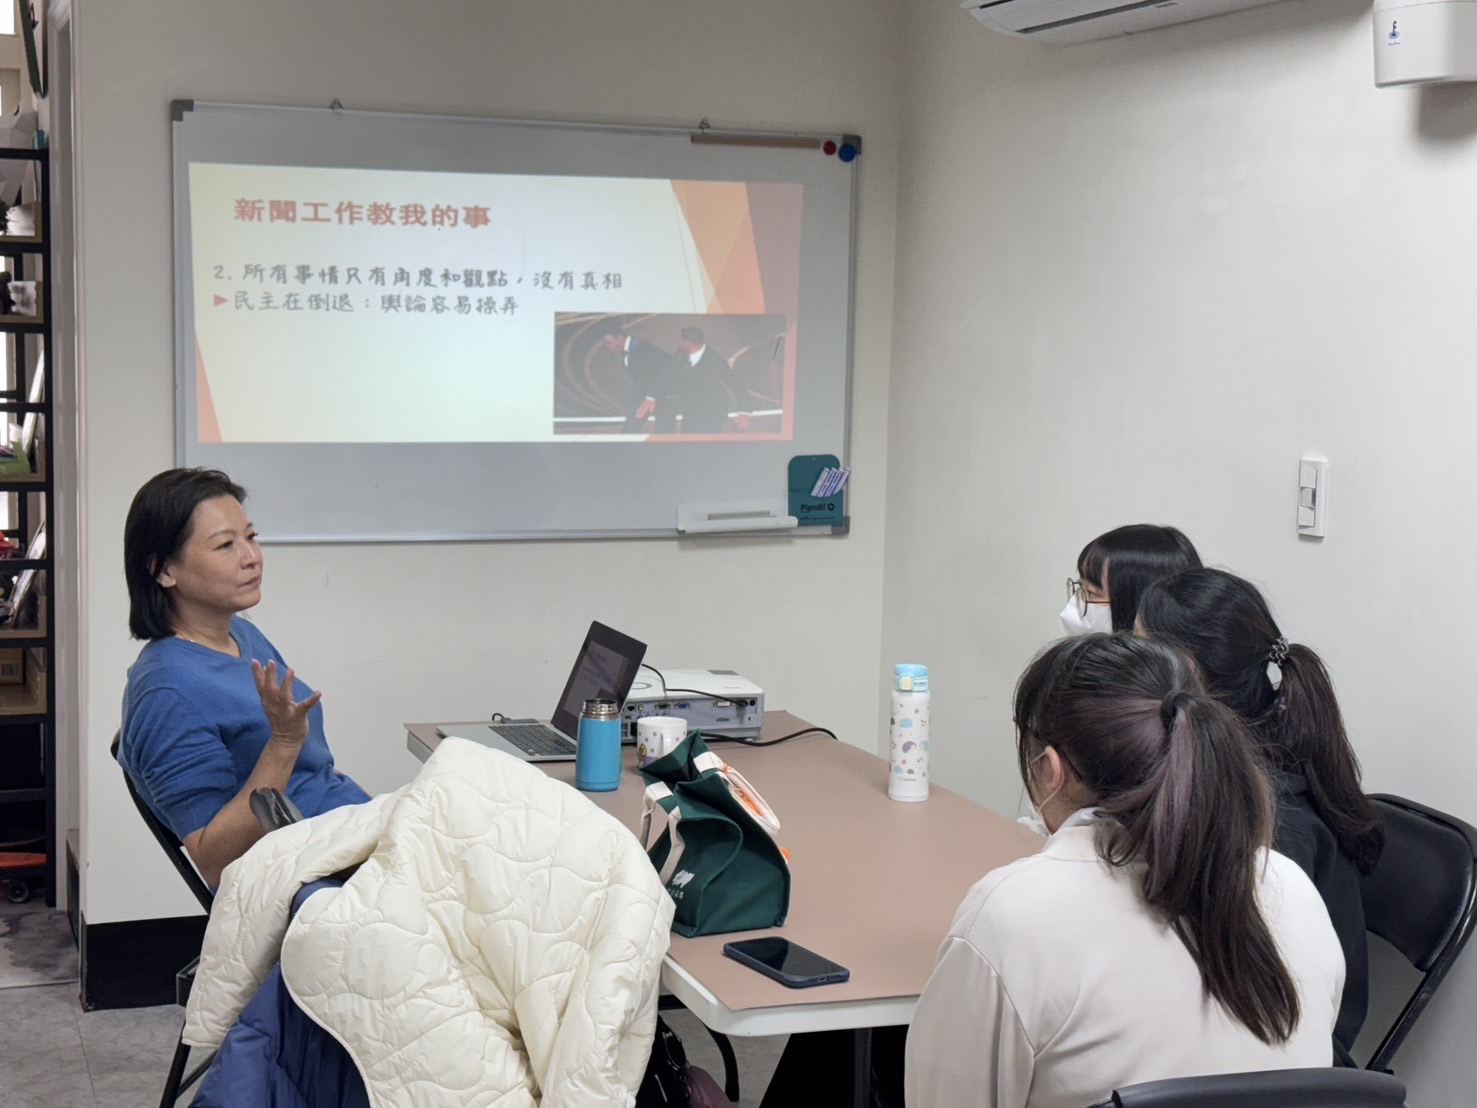
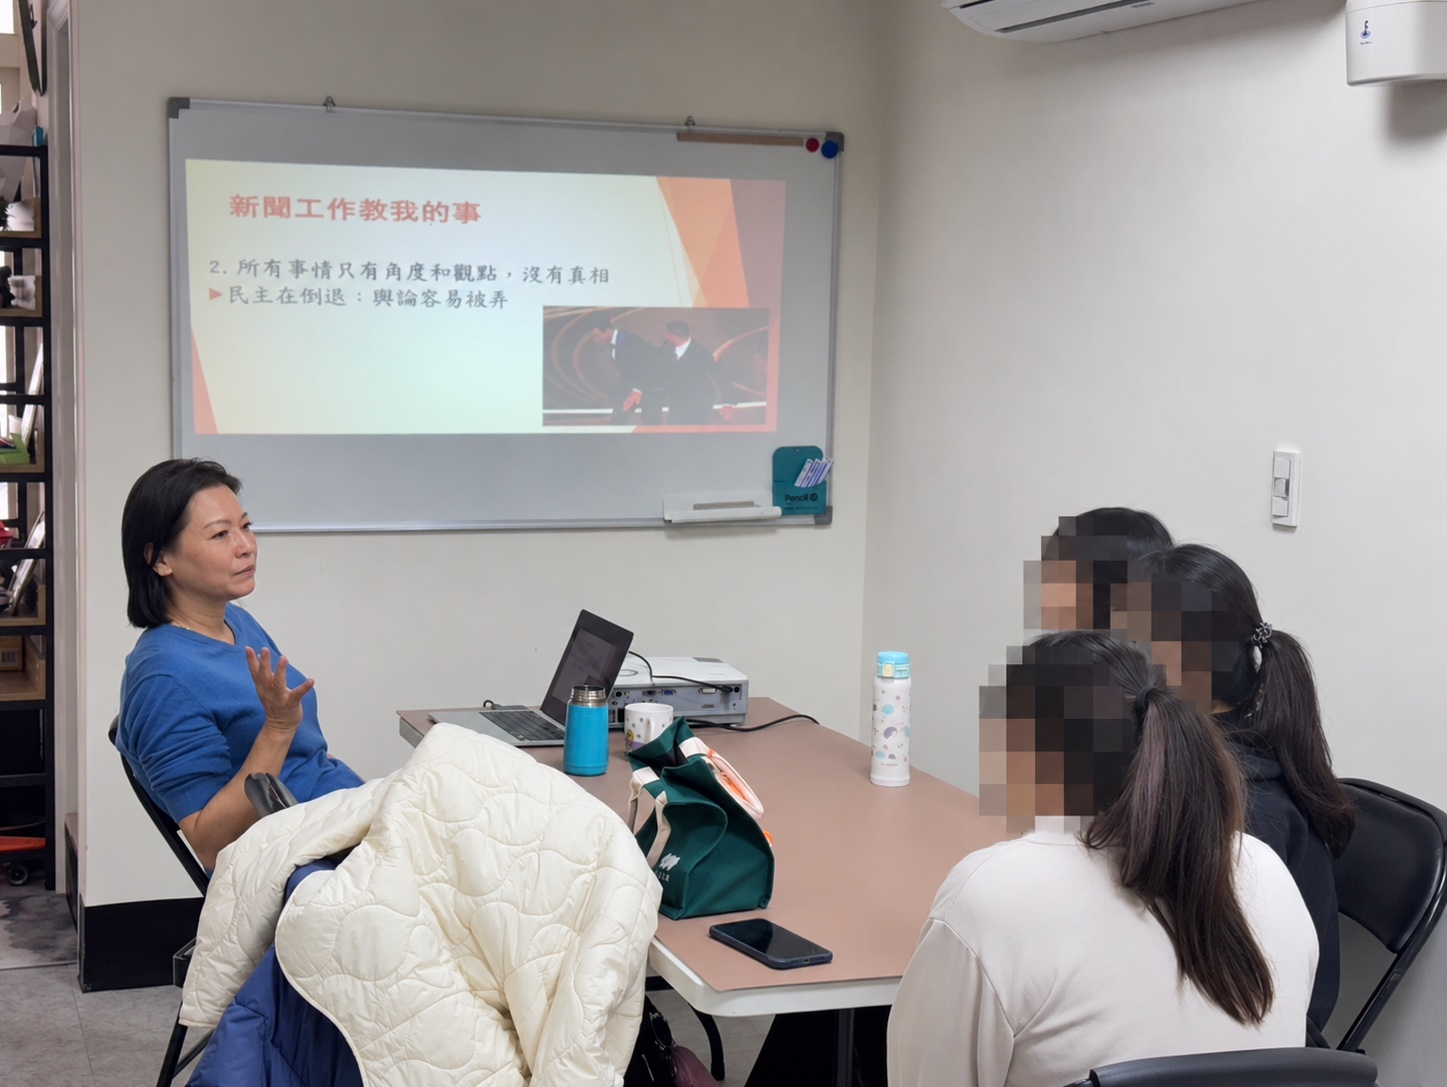
Protect student privacy with face mosaics in classroom photos

diff --git a/index-en.html b/index-en.html
@@ -63,7 +63,7 @@
           </div>
         </div>
         <div class="hero-portrait reveal">
-          <img src="工作照片/五明上課照片.jpg" alt="Konya Chiang leading a classroom discussion" width="4032" height="3024" fetchpriority="high">
+          <img src="工作照片/五明上課照片.jpg?privacy=20261107" alt="Konya Chiang leading a classroom discussion" width="4032" height="3024" fetchpriority="high">
           <div class="portrait-card">
             <img class="portrait-avatar" src="工作照片/個人照.jpg" alt="" width="270" height="319">
             <p>Konya Chiang</p>
@@ -140,14 +140,14 @@
           <p>These courses with educational organizations form the practical foundation of my ongoing curriculum development. New collaborations can adapt the themes, depth and activities to learners’ ages, learning goals and settings.</p>
           <div class="teaching-gallery">
             <figure class="teaching-photo feature">
-              <img src="工作照片/展賦上課.jpg" alt="Konya Chiang teaching a joint course with Zhanfu Action Learning Academy and LIA" loading="lazy" width="1065" height="800">
+              <img src="工作照片/展賦上課.jpg?privacy=20261107" alt="Konya Chiang teaching a joint course with Zhanfu Action Learning Academy and LIA" loading="lazy" width="1065" height="800">
               <figcaption>
                 <strong>Media &amp; Communication</strong>
                 <span>Zhanfu Action Learning Academy / LIA</span>
               </figcaption>
             </figure>
             <figure class="teaching-photo interview">
-              <img src="工作照片/上課照片1.jpg" alt="Konya Chiang guiding students through news interviewing and media perspectives" loading="lazy" width="1477" height="1108">
+              <img src="工作照片/上課照片1.jpg?privacy=20261107" alt="Konya Chiang guiding students through news interviewing and media perspectives" loading="lazy" width="1477" height="1108">
               <figcaption>
                 <strong>Interviewing &amp; Communication</strong>
                 <span>In the classroom</span>
@@ -210,7 +210,7 @@
         </div>
         <div class="classroom-film">
           <figure>
-            <video controls playsinline preload="none" poster="assets/teaching-lia/lia-debate-poster.jpg" aria-label="LIA classroom mini debate, approximately three minutes and forty-one seconds; Chinese-language video" aria-describedby="lia-film-caption">
+            <video controls playsinline preload="none" poster="assets/teaching-lia/lia-debate-poster.jpg?privacy=20261107" aria-label="LIA classroom mini debate, approximately three minutes and forty-one seconds; Chinese-language video" aria-describedby="lia-film-caption">
               <source src="assets/teaching-lia/lia-debate.mp4" type="video/mp4">
               Your browser cannot play this video. Please<a href="assets/teaching-lia/lia-debate.mp4">open the debate video</a>.
             </video>
@@ -236,11 +236,11 @@
         </div>
         <div class="classroom-gallery" aria-label="LIA classroom photos">
           <figure>
-            <img src="assets/teaching-lia/fact-feeling-thought.jpg" alt="LIA students sorting facts, feelings and thoughts" width="1400" height="1050" loading="lazy" decoding="async">
+            <img src="assets/teaching-lia/fact-feeling-thought.jpg?privacy=20261107" alt="LIA students sorting facts, feelings and thoughts" width="1400" height="1050" loading="lazy" decoding="async">
             <figcaption><strong>Facts, feelings and thoughts</strong><span>Use sorting and discussion to separate what happened from how we interpret it.</span></figcaption>
           </figure>
           <figure>
-            <img src="assets/teaching-lia/classroom-sharing.jpg" alt="LIA students organizing and sharing their ideas" width="1400" height="1050" loading="lazy" decoding="async">
+            <img src="assets/teaching-lia/classroom-sharing.jpg?privacy=20261107" alt="LIA students organizing and sharing their ideas" width="1400" height="1050" loading="lazy" decoding="async">
             <figcaption><strong>Organizing and sharing ideas</strong><span>Move from group work to classroom presentations so classmates can understand your thinking.</span></figcaption>
           </figure>
           <figure>
@@ -248,11 +248,11 @@
             <figcaption><strong>Drawing relay: How messages change</strong><span>Notice how a message changes as it is passed along, and check it against the original.</span></figcaption>
           </figure>
           <figure>
-            <img src="assets/teaching-lia/group-discussion.jpg" alt="LIA students listening to different perspectives in a group discussion" width="1400" height="1050" loading="lazy" decoding="async">
+            <img src="assets/teaching-lia/group-discussion.jpg?privacy=20261107" alt="LIA students listening to different perspectives in a group discussion" width="1400" height="1050" loading="lazy" decoding="async">
             <figcaption><strong>Listening to different perspectives</strong><span>Take turns speaking and listening to understand how others see a situation.</span></figcaption>
           </figure>
           <figure>
-            <img src="assets/teaching-lia/role-play.jpg" alt="LIA students taking part in a role-reversal activity" width="1400" height="1050" loading="lazy" decoding="async">
+            <img src="assets/teaching-lia/role-play.jpg?privacy=20261107" alt="LIA students taking part in a role-reversal activity" width="1400" height="1050" loading="lazy" decoding="async">
             <figcaption><strong>Role reversal and scenarios</strong><span>Step into different roles to practise empathy and communication.</span></figcaption>
           </figure>
           <figure>

diff --git a/index-sc.html b/index-sc.html
@@ -63,7 +63,7 @@
           </div>
         </div>
         <div class="hero-portrait reveal">
-          <img src="工作照片/五明上課照片.jpg" alt="江宜汾带领学生进行课堂讨论" width="4032" height="3024" fetchpriority="high">
+          <img src="工作照片/五明上課照片.jpg?privacy=20261107" alt="江宜汾带领学生进行课堂讨论" width="4032" height="3024" fetchpriority="high">
           <div class="portrait-card">
             <img class="portrait-avatar" src="工作照片/個人照.jpg" alt="" width="270" height="319">
             <p>江宜汾</p>
@@ -140,14 +140,14 @@
           <p>这些是我过往与教育机构合作的课程案例，也是持续发展课程的实践基础。新的合作可依学员年龄、学习目标与场域，调整主题、深度及活动设计。</p>
           <div class="teaching-gallery">
             <figure class="teaching-photo feature">
-              <img src="工作照片/展賦上課.jpg" alt="江宜汾于展赋行动学苑与五明国际学苑共同课程授课" loading="lazy" width="1065" height="800">
+              <img src="工作照片/展賦上課.jpg?privacy=20261107" alt="江宜汾于展赋行动学苑与五明国际学苑共同课程授课" loading="lazy" width="1065" height="800">
               <figcaption>
                 <strong>传播与沟通</strong>
                 <span>展赋行动学苑 / 五明国际学苑</span>
               </figcaption>
             </figure>
             <figure class="teaching-photo interview">
-              <img src="工作照片/上課照片1.jpg" alt="江宜汾带领学生理解新闻采访与媒体观点" loading="lazy" width="1477" height="1108">
+              <img src="工作照片/上課照片1.jpg?privacy=20261107" alt="江宜汾带领学生理解新闻采访与媒体观点" loading="lazy" width="1477" height="1108">
               <figcaption>
                 <strong>采访与传播</strong>
                 <span>课堂现场</span>
@@ -210,7 +210,7 @@
         </div>
         <div class="classroom-film">
           <figure>
-            <video controls playsinline preload="none" poster="assets/teaching-lia/lia-debate-poster.jpg" aria-label="LIA 五明课堂迷你辩论赛，影片约三分四十一秒" aria-describedby="lia-film-caption">
+            <video controls playsinline preload="none" poster="assets/teaching-lia/lia-debate-poster.jpg?privacy=20261107" aria-label="LIA 五明课堂迷你辩论赛，影片约三分四十一秒" aria-describedby="lia-film-caption">
               <source src="assets/teaching-lia/lia-debate.mp4" type="video/mp4">
               您的浏览器无法播放这段影片，请<a href="assets/teaching-lia/lia-debate.mp4">开启辩论赛影片</a>。
             </video>
@@ -236,11 +236,11 @@
         </div>
         <div class="classroom-gallery" aria-label="五明课堂照片">
           <figure>
-            <img src="assets/teaching-lia/fact-feeling-thought.jpg" alt="分辨事实、感受与想法的五明课堂实况" width="1400" height="1050" loading="lazy" decoding="async">
+            <img src="assets/teaching-lia/fact-feeling-thought.jpg?privacy=20261107" alt="分辨事实、感受与想法的五明课堂实况" width="1400" height="1050" loading="lazy" decoding="async">
             <figcaption><strong>分辨事实、感受与想法</strong><span>透过分类与讨论，练习把发生的事情和自己的解读分开。</span></figcaption>
           </figure>
           <figure>
-            <img src="assets/teaching-lia/classroom-sharing.jpg" alt="整理想法，练习分享的五明课堂实况" width="1400" height="1050" loading="lazy" decoding="async">
+            <img src="assets/teaching-lia/classroom-sharing.jpg?privacy=20261107" alt="整理想法，练习分享的五明课堂实况" width="1400" height="1050" loading="lazy" decoding="async">
             <figcaption><strong>整理想法，练习分享</strong><span>从小组整理到课堂发表，让自己的想法被同学理解。</span></figcaption>
           </figure>
           <figure>
@@ -248,11 +248,11 @@
             <figcaption><strong>画画接龙：讯息如何改变</strong><span>观察讯息经过传递后的差异，练习回头确认原始内容。</span></figcaption>
           </figure>
           <figure>
-            <img src="assets/teaching-lia/group-discussion.jpg" alt="在讨论中听见不同观点的五明课堂实况" width="1400" height="1050" loading="lazy" decoding="async">
+            <img src="assets/teaching-lia/group-discussion.jpg?privacy=20261107" alt="在讨论中听见不同观点的五明课堂实况" width="1400" height="1050" loading="lazy" decoding="async">
             <figcaption><strong>在讨论中听见不同观点</strong><span>轮流表达与倾听，理解每个人看待事情的角度。</span></figcaption>
           </figure>
           <figure>
-            <img src="assets/teaching-lia/role-play.jpg" alt="角色反转与情境演练的五明课堂实况" width="1400" height="1050" loading="lazy" decoding="async">
+            <img src="assets/teaching-lia/role-play.jpg?privacy=20261107" alt="角色反转与情境演练的五明课堂实况" width="1400" height="1050" loading="lazy" decoding="async">
             <figcaption><strong>角色反转与情境演练</strong><span>用不同角色进入情境，练习同理与沟通。</span></figcaption>
           </figure>
           <figure>

diff --git a/index.html b/index.html
@@ -63,7 +63,7 @@
           </div>
         </div>
         <div class="hero-portrait reveal">
-          <img src="工作照片/五明上課照片.jpg" alt="江宜汾帶領學生進行課堂討論" width="4032" height="3024" fetchpriority="high">
+          <img src="工作照片/五明上課照片.jpg?privacy=20261107" alt="江宜汾帶領學生進行課堂討論" width="4032" height="3024" fetchpriority="high">
           <div class="portrait-card">
             <img class="portrait-avatar" src="工作照片/個人照.jpg" alt="" width="270" height="319">
             <p>江宜汾</p>
@@ -140,14 +140,14 @@
           <p>這些是我過往與教育機構合作的課程案例，也是持續發展課程的實踐基礎。新的合作可依學員年齡、學習目標與場域，調整主題、深度及活動設計。</p>
           <div class="teaching-gallery">
             <figure class="teaching-photo feature">
-              <img src="工作照片/展賦上課.jpg" alt="江宜汾於展賦行動學苑與五明國際學苑共同課程授課" loading="lazy" width="1065" height="800">
+              <img src="工作照片/展賦上課.jpg?privacy=20261107" alt="江宜汾於展賦行動學苑與五明國際學苑共同課程授課" loading="lazy" width="1065" height="800">
               <figcaption>
                 <strong>傳播與溝通</strong>
                 <span>展賦行動學苑 / 五明國際學苑</span>
               </figcaption>
             </figure>
             <figure class="teaching-photo interview">
-              <img src="工作照片/上課照片1.jpg" alt="江宜汾帶領學生理解新聞採訪與媒體觀點" loading="lazy" width="1477" height="1108">
+              <img src="工作照片/上課照片1.jpg?privacy=20261107" alt="江宜汾帶領學生理解新聞採訪與媒體觀點" loading="lazy" width="1477" height="1108">
               <figcaption>
                 <strong>採訪與傳播</strong>
                 <span>課堂現場</span>
@@ -210,7 +210,7 @@
         </div>
         <div class="classroom-film">
           <figure>
-            <video controls playsinline preload="none" poster="assets/teaching-lia/lia-debate-poster.jpg" aria-label="LIA 五明課堂迷你辯論賽，影片約三分四十一秒" aria-describedby="lia-film-caption">
+            <video controls playsinline preload="none" poster="assets/teaching-lia/lia-debate-poster.jpg?privacy=20261107" aria-label="LIA 五明課堂迷你辯論賽，影片約三分四十一秒" aria-describedby="lia-film-caption">
               <source src="assets/teaching-lia/lia-debate.mp4" type="video/mp4">
               您的瀏覽器無法播放這段影片，請<a href="assets/teaching-lia/lia-debate.mp4">開啟辯論賽影片</a>。
             </video>
@@ -236,11 +236,11 @@
         </div>
         <div class="classroom-gallery" aria-label="五明課堂照片">
           <figure>
-            <img src="assets/teaching-lia/fact-feeling-thought.jpg" alt="分辨事實、感受與想法的五明課堂實況" width="1400" height="1050" loading="lazy" decoding="async">
+            <img src="assets/teaching-lia/fact-feeling-thought.jpg?privacy=20261107" alt="分辨事實、感受與想法的五明課堂實況" width="1400" height="1050" loading="lazy" decoding="async">
             <figcaption><strong>分辨事實、感受與想法</strong><span>透過分類與討論，練習把發生的事情和自己的解讀分開。</span></figcaption>
           </figure>
           <figure>
-            <img src="assets/teaching-lia/classroom-sharing.jpg" alt="整理想法，練習分享的五明課堂實況" width="1400" height="1050" loading="lazy" decoding="async">
+            <img src="assets/teaching-lia/classroom-sharing.jpg?privacy=20261107" alt="整理想法，練習分享的五明課堂實況" width="1400" height="1050" loading="lazy" decoding="async">
             <figcaption><strong>整理想法，練習分享</strong><span>從小組整理到課堂發表，讓自己的想法被同學理解。</span></figcaption>
           </figure>
           <figure>
@@ -248,11 +248,11 @@
             <figcaption><strong>畫畫接龍：訊息如何改變</strong><span>觀察訊息經過傳遞後的差異，練習回頭確認原始內容。</span></figcaption>
           </figure>
           <figure>
-            <img src="assets/teaching-lia/group-discussion.jpg" alt="在討論中聽見不同觀點的五明課堂實況" width="1400" height="1050" loading="lazy" decoding="async">
+            <img src="assets/teaching-lia/group-discussion.jpg?privacy=20261107" alt="在討論中聽見不同觀點的五明課堂實況" width="1400" height="1050" loading="lazy" decoding="async">
             <figcaption><strong>在討論中聽見不同觀點</strong><span>輪流表達與傾聽，理解每個人看待事情的角度。</span></figcaption>
           </figure>
           <figure>
-            <img src="assets/teaching-lia/role-play.jpg" alt="角色反轉與情境演練的五明課堂實況" width="1400" height="1050" loading="lazy" decoding="async">
+            <img src="assets/teaching-lia/role-play.jpg?privacy=20261107" alt="角色反轉與情境演練的五明課堂實況" width="1400" height="1050" loading="lazy" decoding="async">
             <figcaption><strong>角色反轉與情境演練</strong><span>用不同角色進入情境，練習同理與溝通。</span></figcaption>
           </figure>
           <figure>
